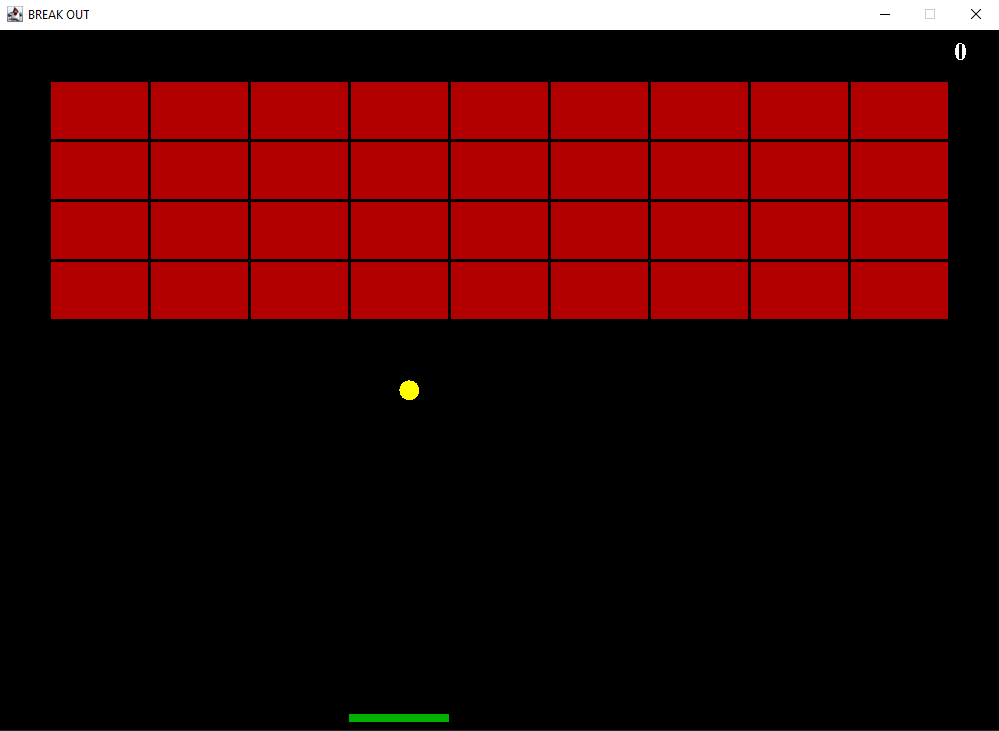
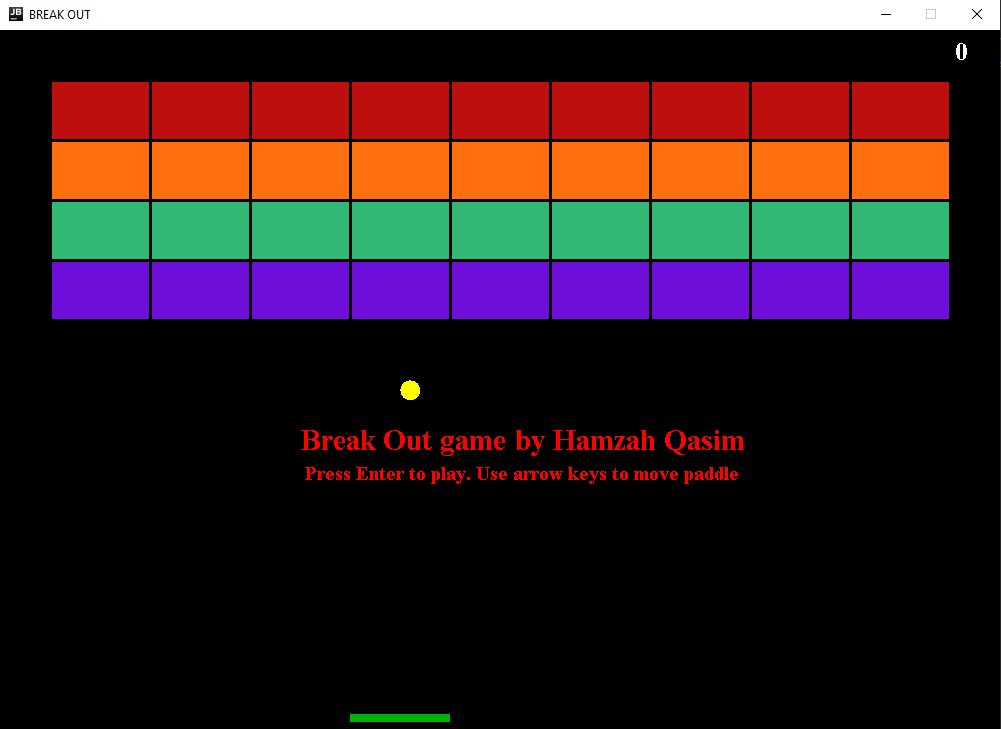
Version 2.0 Changes
Added New Brick Colors.
Added different rebound angles of ball when it collides with paddle.
Added Starting game text.
Fixed new game issues.

diff --git a/src/hamzahqasim/BreakOut/GameLogic.java b/src/hamzahqasim/BreakOut/GameLogic.java
@@ -7,6 +7,7 @@ import java.awt.event.*;
 public class GameLogic extends JPanel implements KeyListener, ActionListener {
     // Variables
     private boolean playStatus = false;
+    private boolean firstGame = true; // Keeps track of first game
     private int score = 0;
     private int brickRows = 4; // Total Rows of bricks
     private int brickColumns = 9; // Total Columns of bricks
@@ -19,8 +20,9 @@ public class GameLogic extends JPanel implements KeyListener, ActionListener {
     private int paddleY = GameApp.gameWindowHeight - (2 * paddleHeight); // Paddle Y Coordinates
     private int ballXpos = 400; // Ball X Coordinate
     private int ballYpos = 350; // Ball Y Coordinate
-    private int ballXdir = 1; // Ball X direction step
-    private int ballYdir = 2; // Ball Y direction step
+    private double ballVelocity = Math.sqrt(5);
+    private double ballXdir = 1; // Ball X direction step
+    private double ballYdir = 2; // Ball Y direction step
     private BrickGenerator bricks;
 
     public GameLogic(){
@@ -48,8 +50,17 @@ public class GameLogic extends JPanel implements KeyListener, ActionListener {
         // Ball
         g.setColor(Color.YELLOW);
         g.fillOval(ballXpos, ballYpos, 20, 20); // Ball size is 20 x 20 pixels
+        // Game starting Scenario
+        if (firstGame == true){
+            g.setColor(Color.RED);
+            g.setFont(new Font("serif",Font.BOLD, 30));
+            g.drawString("Break Out game by Hamzah Qasim", 300, 420);
+            g.setFont(new Font("serif",Font.BOLD, 20));
+            g.drawString("Press Enter to play. Use arrow keys to move paddle", 305, 450);
+            firstGame = false;
+        }
         // Game Lose Scenario
-        if (ballYpos > GameApp.gameWindowHeight - 23){
+        if (ballYpos > GameApp.gameWindowHeight -12){
             playStatus = false;
             ballYdir = 0;
             ballXdir = 0;
@@ -61,14 +72,16 @@ public class GameLogic extends JPanel implements KeyListener, ActionListener {
         }
         // Game Win Scenario
         if (totalBricks <= 0 ){
+            totalBricks = brickRows * brickColumns; // resets brick count
             playStatus = false;
             ballXdir = 0;
             ballYdir = 0;
             g.setColor(Color.RED);
             g.setFont(new Font("serif",Font.BOLD, 30));
-            g.drawString("You Win!, Score: " + score, 360, 420);
+            g.drawString("You Win! Score: " + score, 360, 420);
             g.setFont(new Font("serif",Font.BOLD, 20));
             g.drawString("Press Enter to play again", 370, 450);
+
         }
         g.dispose();
     }
@@ -77,42 +90,49 @@ public class GameLogic extends JPanel implements KeyListener, ActionListener {
     public void actionPerformed(ActionEvent actionEvent) {
         int ballXPreImpact = ballXpos; // Position of ball before impact
         timer.start();
-        if(playStatus) {
+        if (playStatus) {
             // Move the ball
             ballXpos += ballXdir; // Add velocity to ball X direction
             ballYpos += ballYdir; // Add velocity to ball Y direction
-            // Ball and paddle collision
-            if (new Rectangle(ballXpos,ballYpos,20,20).intersects(new
-                    Rectangle(paddleX,paddleY,paddleWidth,paddleHeight))){
-                ballYdir = -ballYdir;
-                // Rebound Mechanics
-                if (ballXpos <= (paddleX + (paddleWidth / 2) ) ) {
-                    if (ballXPreImpact < ballXpos){
-                        ballXdir = -ballXdir;
-                    }
-                } else if (ballXpos > (paddleX + (paddleWidth / 2) ) ){
-                    if (ballXPreImpact > ballXpos){
-                        ballXdir = -ballXdir;
-                    }
-                }
+
+            // Left Border Collision
+            if (ballXpos <= 0) {
+                ballXdir = 1;
             }
+
+            //Right Border Collision
+            if (ballXpos >= (GameApp.gameWindowWidth - 20)) {
+                ballXdir = -1;
+            }
+            // Top border Collision
+            if (ballYpos <= 5) {
+                ballYdir = -ballYdir;
+            }
+
+            // Ball and paddle collision
+            if (new Rectangle(ballXpos, ballYpos, 20, 20).intersects(new
+                    Rectangle(paddleX, paddleY, paddleWidth, paddleHeight))) {
+                paddleCollision(ballXPreImpact);
+            }
+
             // Ball and Brick collision
-            A: for (int i = 0; i < bricks.map.length; i++){
-                for (int j = 0; j < bricks.map[0].length; j++){
-                    if(bricks.map[i][j] > 0){
-                        int brickX = j* bricks.brickWidth + 50;
-                        int brickY = i* bricks.brickHeight + 50;
+            A:
+            for (int i = 0; i < bricks.map.length; i++) {
+                for (int j = 0; j < bricks.map[0].length; j++) {
+                    if (bricks.map[i][j] > 0) {
+                        int brickX = j * bricks.brickWidth + 50;
+                        int brickY = i * bricks.brickHeight + 50;
                         int brickWidth = bricks.brickWidth;
                         int brickHeight = bricks.brickHeight;
 
                         Rectangle brickRect = new Rectangle(brickX, brickY, brickWidth, brickHeight);
                         Rectangle ballrect = new Rectangle(ballXpos, ballYpos, 20, 20);
 
-                        if (ballrect.intersects(brickRect)){
-                            bricks.setBrickValue(0, i , j);
-                            totalBricks --;
-                            score +=5;
-                            if (ballXpos + 19 <= brickRect.x || ballXpos + 1 >= (brickRect.x + brickRect.width) ){
+                        if (ballrect.intersects(brickRect)) {
+                            bricks.setBrickValue(0, i, j);
+                            totalBricks--;
+                            score += 5;
+                            if (ballXpos + 19 <= brickRect.x || ballXpos + 1 >= (brickRect.x + brickRect.width)) {
                                 ballXdir = -ballXdir;
                             } else {
                                 ballYdir = -ballYdir;
@@ -122,21 +142,11 @@ public class GameLogic extends JPanel implements KeyListener, ActionListener {
                     }
                 }
             }
-            // Left Border Collision
-            if (ballXpos < 0){
-              ballXdir = -(ballXdir);
-            }
-            // Right Border Collision
-            if (ballXpos > (GameApp.gameWindowWidth - 20) ){
-                ballXdir = -ballXdir;
-            }
-            // Top border Collision
-            if (ballYpos < 0){
-                ballYdir = -ballYdir;
-            }
+
+            repaint();
         }
-        repaint();
     }
+
     @Override
     public void keyTyped(KeyEvent keyEvent) { }
     @Override
@@ -151,11 +161,12 @@ public class GameLogic extends JPanel implements KeyListener, ActionListener {
         if (keyEvent.getKeyCode() == KeyEvent.VK_LEFT) {
             moveLeft(); // Left Move method
         }
+
         // Starting a new game by pressing Enter
         if (keyEvent.getKeyCode() == KeyEvent.VK_ENTER){
-            if(!playStatus){
+            if(playStatus == false){
                 playStatus = true;
-                ballXpos = 120;
+                ballXpos = 400;
                 ballYpos = 350;
                 ballXdir = -1;
                 ballYdir = -2;
@@ -167,7 +178,6 @@ public class GameLogic extends JPanel implements KeyListener, ActionListener {
         }
     }
     public void moveRight(){
-        playStatus = true;
         if (paddleX >= GameApp.gameWindowWidth - paddleWidth){
             paddleX = GameApp.gameWindowWidth - paddleWidth;
         } else{
@@ -175,11 +185,58 @@ public class GameLogic extends JPanel implements KeyListener, ActionListener {
         }
     }
     public void moveLeft(){
-        playStatus = true;
         if (paddleX <= 0) {
             paddleX = 0;
         } else {
             paddleX -= 20; //Increments paddle to Left
+        }
+    }
+    // Paddle Collision Method. Called when ever ball hits paddle
+    public void paddleCollision(int ballXPreImpact){
+        // Rebound Mechanics
+        if (ballXPreImpact < ballXpos) { // Ball moving right impacted with paddle
+            if (ballXpos >= (paddleX-10) && ballXpos <= (paddleX + 16)) {
+                ballXdir = -ballVelocity * Math.cos(Math.toRadians(30));
+                ballYdir = -ballVelocity * Math.sin(Math.toRadians(30));
+            } else if (ballXpos > (paddleX + 16) && ballXpos <= (paddleX + 32)) {
+                ballXdir = -ballVelocity * Math.cos(Math.toRadians(50));
+                ballYdir = -ballVelocity * Math.sin(Math.toRadians(50));
+            } else if (ballXpos > (paddleX + 32) && ballXpos <= (paddleX + 50)) {
+                ballXdir = -ballVelocity * Math.cos(Math.toRadians(70));
+                ballYdir = -ballVelocity * Math.sin(Math.toRadians(70));
+            } else if (ballXpos > (paddleX + 50) && ballXpos <= (paddleX + 68)) {
+                ballXdir = ballVelocity * Math.cos(Math.toRadians(30));
+                ballYdir = -ballVelocity * Math.sin(Math.toRadians(30));
+            } else if (ballXpos > (paddleX + 68) && ballXpos <= (paddleX + 84)) {
+                ballXdir = ballVelocity * Math.cos(Math.toRadians(50));
+                ballYdir = -ballVelocity * Math.sin(Math.toRadians(50));
+            } else if (ballXpos > (paddleX + 84) && ballXpos <= (paddleX + 100 + 10)) {
+                ballXdir = ballVelocity * Math.cos(Math.toRadians(70));
+                ballYdir = -ballVelocity * Math.sin(Math.toRadians(70));
+            }
+        } else if (ballXPreImpact > ballXpos) { // Ball moving left impacted with paddle
+            if (ballXpos >= (paddleX-10) && ballXpos <= (paddleX + 16)) {
+                ballXdir = -ballVelocity * Math.cos(Math.toRadians(30));
+                ballYdir = -ballVelocity * Math.sin(Math.toRadians(30));
+            } else if (ballXpos > (paddleX + 16) && ballXpos <= (paddleX + 32)) {
+                ballXdir = -ballVelocity * Math.cos(Math.toRadians(50));
+                ballYdir = -ballVelocity * Math.sin(Math.toRadians(50));
+            } else if (ballXpos > (paddleX + 32) && ballXpos <= (paddleX + 50)) {
+                ballXdir = -ballVelocity * Math.cos(Math.toRadians(70));
+                ballYdir = -ballVelocity * Math.sin(Math.toRadians(70));
+            } else if (ballXpos > (paddleX + 50) && ballXpos <= (paddleX + 68)) {
+                ballXdir = ballVelocity * Math.cos(Math.toRadians(30));
+                ballYdir = -ballVelocity * Math.sin(Math.toRadians(30));
+            } else if (ballXpos > (paddleX + 68) && ballXpos <= (paddleX + 84)) {
+                ballXdir = ballVelocity * Math.cos(Math.toRadians(50));
+                ballYdir = -ballVelocity * Math.sin(Math.toRadians(50));
+            } else if (ballXpos > (paddleX + 84) && ballXpos <= (paddleX + 100 + 10)) {
+                ballXdir = ballVelocity * Math.cos(Math.toRadians(70));
+                ballYdir = -ballVelocity * Math.sin(Math.toRadians(70));
+            }
+        } else {
+            ballXdir = 0;
+            ballYdir = -ballYdir;
         }
     }
 }

diff --git a/src/hamzahqasim/BreakOut/BrickGenerator.java b/src/hamzahqasim/BreakOut/BrickGenerator.java
@@ -22,10 +22,25 @@ public class BrickGenerator {
         for (int i = 0; i < map.length; i++){
             for (int j = 0; j < map[0].length; j++){
                 if (map[i][j] > 0){
-                    // Drawing Brick
-                    g.setColor(Color.red.darker());
-                    g.fillRect((j * brickWidth) + 50, (i * brickHeight + 50), brickWidth, brickHeight);
-                    // Setting Brick Padding
+                    // Coloring Rows with different colors
+                    if (i == 0){
+                        Color row0Color = new Color(190,15,15);
+                        g.setColor(row0Color);
+                        g.fillRect((j * brickWidth) + 50, (i * brickHeight + 50), brickWidth, brickHeight);
+                    } else if (i == 1){
+                        Color row1Color = new Color(255, 111, 14);
+                        g.setColor(row1Color);
+                        g.fillRect((j * brickWidth) + 50, (i * brickHeight + 50), brickWidth, brickHeight);
+                    } else if (i == 2){
+                        Color row2Color = new Color(49, 184, 117);
+                        g.setColor(row2Color);
+                        g.fillRect((j * brickWidth) + 50, (i * brickHeight + 50), brickWidth, brickHeight);
+                    } else if (i==3){
+                        Color row3Color = new Color(109, 14, 217);
+                        g.setColor(row3Color);
+                        g.fillRect((j * brickWidth) + 50, (i * brickHeight + 50), brickWidth, brickHeight);
+                    }
+                    // Adds padding between bricks
                     g.setStroke(new BasicStroke(3));
                     g.setColor(Color.black);
                     g.drawRect((j * brickWidth) + 50, (i * brickHeight + 50), brickWidth, brickHeight);

diff --git a/README.md b/README.md
@@ -24,8 +24,12 @@ Java Swing and AWT library
 
 ## Versioning
 
-Version 1.0
+Version 2.0:
 
+- Added New Brick Colors
+- Added different rebound angles of ball when it collides with paddle
+- Added Starting game text
+- Fixed new game issues
 ## Authors
 
 * **Hamzah Qasim**
